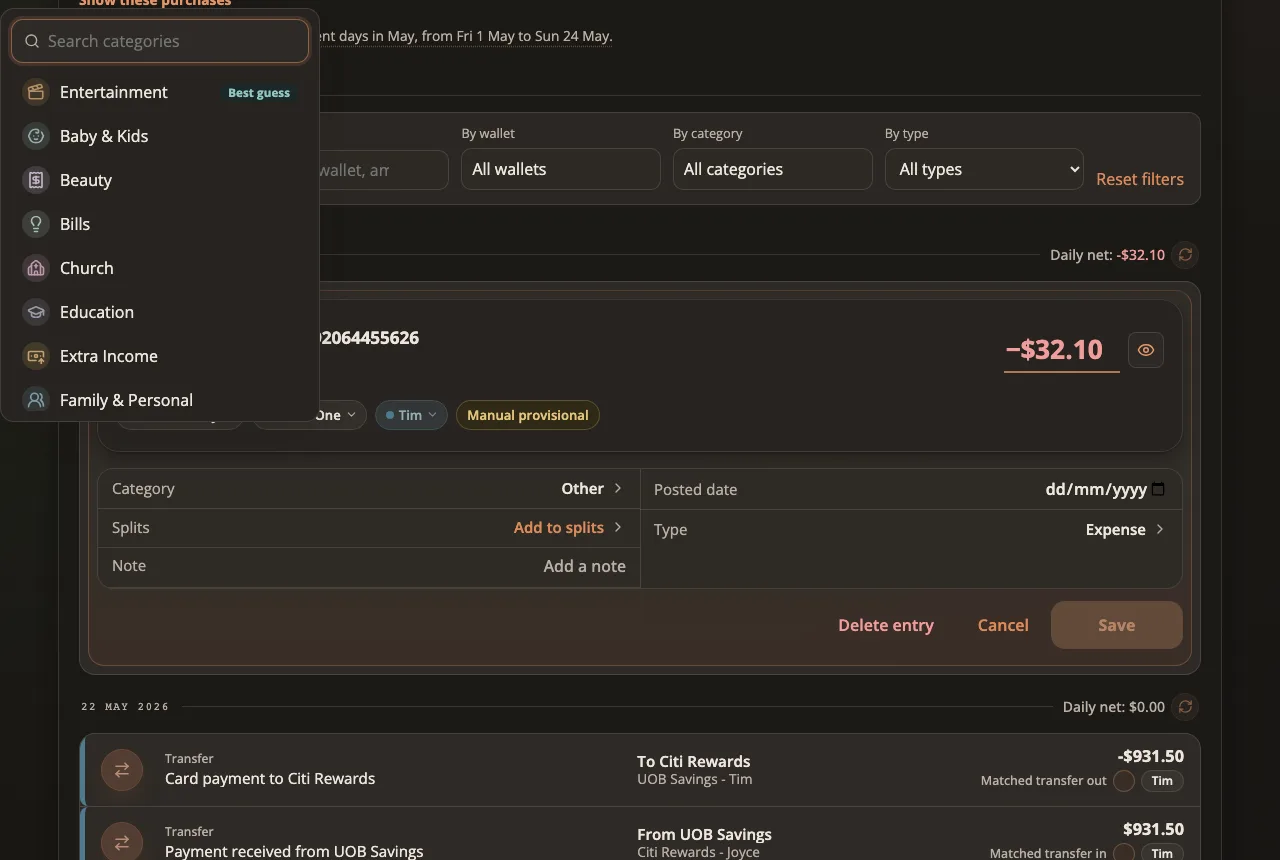
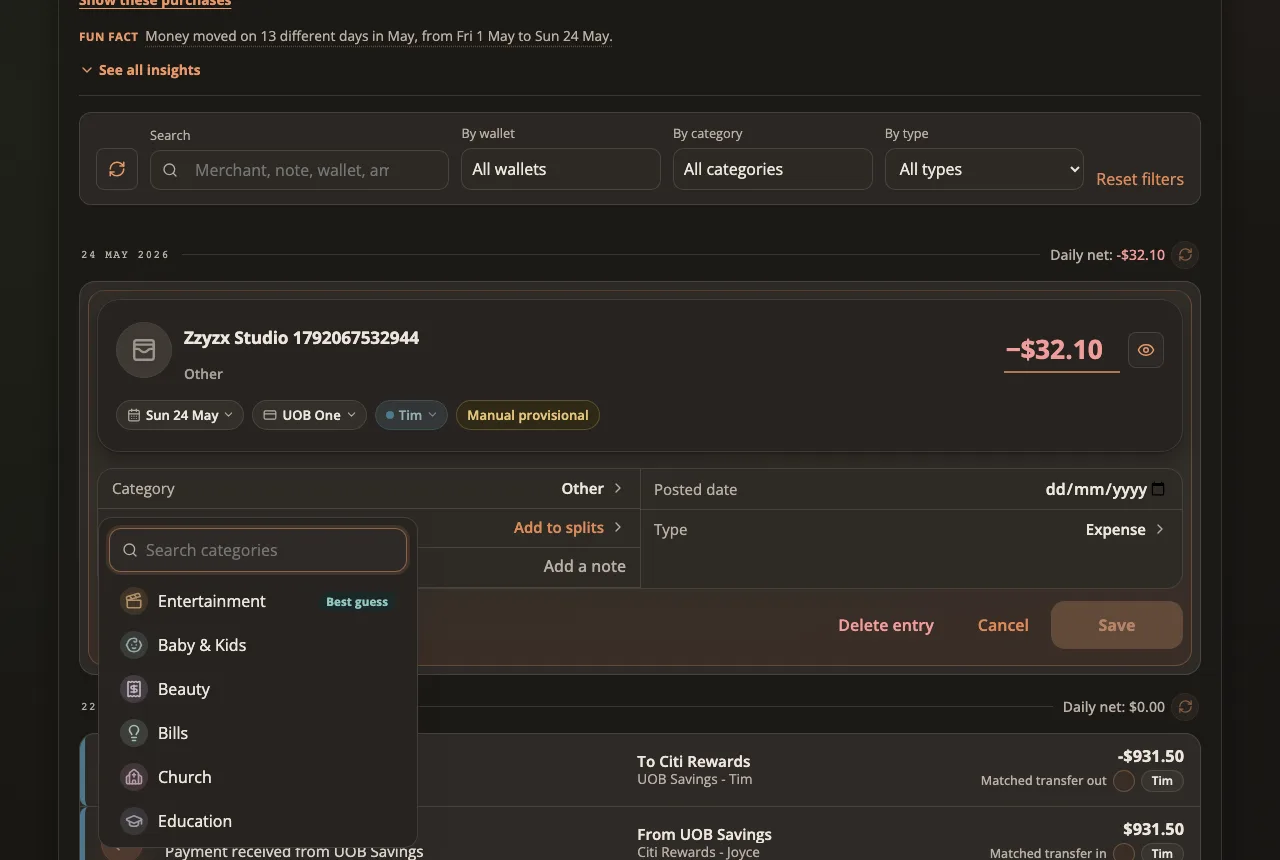
Category list: popover above dialogs, form tests read the list, docs index, retaken screenshots

diff --git a/tests/e2e/helpers.js b/tests/e2e/helpers.js
@@ -323,6 +323,17 @@ export const categoryList = (page) => page.getByRole("listbox", { name: "Categor
 export const categoryOption = (page, name) => page.locator(`[data-category-option="${name}"]`);
 export const categorySearch = (page) => page.getByRole("combobox", { name: "Search categories" });
 
+// The category names the entry form offers: opens its category list, reads the
+// names and closes it again (the form's own category control, not a filter).
+export async function categoryNamesInForm(page) {
+  await page.getByRole("button", { name: /^Category,/ }).first().click();
+  await expect(categoryList(page)).toBeVisible();
+  const names = await categoryList(page).locator(".category-pick-row-label").allTextContents();
+  await page.keyboard.press("Escape");
+  await expect(categoryList(page)).toHaveCount(0);
+  return names;
+}
+
 export async function pickCategory(page, trigger, name) {
   await trigger.click();
   await expect(categoryList(page)).toBeVisible();

diff --git a/tests/e2e/app-sync-subscription.spec.js b/tests/e2e/app-sync-subscription.spec.js
@@ -1,6 +1,6 @@
 import { expect, test } from "@playwright/test";
 
-import { openEntryComposer, postJson, reseedDemo } from "./helpers";
+import { categoryNamesInForm, openEntryComposer, postJson, reseedDemo } from "./helpers";
 
 // H12d: cross-tab sync lives in useAppSyncSubscription. Both transports reach
 // the same handlers: a BroadcastChannel shell refresh and a storage-event
@@ -30,7 +30,7 @@ test("a shell refresh sent over BroadcastChannel updates reference data in the o
     channel.close();
   });
 
-  await expect.poll(() => other.locator("select option").allTextContents(), { timeout: 15_000 }).toContain(renamed);
+  await expect.poll(() => categoryNamesInForm(other), { timeout: 15_000 }).toContain(renamed);
   expect(await other.evaluate(() => window.__notReloaded)).toBe(true);
   await other.close();
 });

diff --git a/tests/e2e/reference-data-owner.spec.js b/tests/e2e/reference-data-owner.spec.js
@@ -1,6 +1,6 @@
 import { expect, test } from "@playwright/test";
 
-import { openEntryComposer, postJson, reseedDemo } from "./helpers";
+import { categoryNamesInForm, openEntryComposer, postJson, reseedDemo } from "./helpers";
 
 // H12a: reference data (accounts, categories) has one owner. A cross-tab
 // refresh keeps the last good data on screen, never blanks the shell or
@@ -32,7 +32,7 @@ function broadcastShellRefresh(page) {
 }
 
 async function categoryOptions(page) {
-  return page.locator("select option").allTextContents();
+  return categoryNamesInForm(page);
 }
 
 test("a cross-tab refresh updates reference data without blanking the shell or dropping a draft", async ({ page }) => {

diff --git a/src/client/category-pick.css b/src/client/category-pick.css
@@ -206,7 +206,8 @@
   border-radius: 14px;
   background: var(--card);
   box-shadow: 0 18px 40px rgba(27, 24, 21, 0.14);
-  z-index: 80;
+  /* Above the dialogs and sheets it can open from (z-index 90 and 91). */
+  z-index: 140;
 }
 
 .category-popover:focus {

diff --git a/docs/audits/category-quick-pick.md b/docs/audits/category-quick-pick.md
@@ -81,6 +81,24 @@ skipped), a category the household lacks is skipped. No AI.
 - No page response changed: the entries-page payload is unchanged.
 - Nothing is sent but the entry's own description (at most 240 characters).
 
+## Screenshots
+
+In `docs/audits/category-quick-pick/` (demo data only; the spec
+`tests/e2e/category-quick-pick.spec.js` takes them when
+`CATEGORY_PICK_SHOT_DIR` is set):
+
+- Before: `before-desktop-light-label-click-opens-editor` (the label opened the
+  row's editor, there was no list to search) and
+  `before-phone-light-category-picker` (the plain phone list).
+- After, wide screen, light and dark: `desktop-*-entries-row-best-guess`,
+  `-search-kopi`, `-no-match`, `desktop-*-edit-card`, `desktop-*-filter`.
+- After, phone, light and dark: `phone-*-entries-row-best-guess`,
+  `phone-*-entries-row-search-coffee`.
+
+The other families (Ask, Month plan, Settings, Imports, Splits) draw the same
+list from the same component; `tests/category-pick-list-dom.test.mjs` and the
+browser specs for each cover them.
+
 ## Not covered
 
 - Rule words in the search ("any category rule words if cheap"): the page does

diff --git a/docs/README.md b/docs/README.md
@@ -114,6 +114,10 @@ a doc here in the same change.
 - [`audits/month-lead-spacing/README.md`](audits/month-lead-spacing/README.md):
   the Month and Summary lead's vertical rhythm and the legend share rule,
   with before and after screenshots (15 October 2026).
+- [`audits/category-quick-pick.md`](audits/category-quick-pick.md): the one
+  category list (search, best guess first, then A to Z): inventory of every
+  place a category is chosen, the focus decision, the best-guess rules and
+  their read cost, with before and after screenshots (15 October 2026).
 - [`audits/ai-assistance-slice-audit.md`](audits/ai-assistance-slice-audit.md):
   optional AI assistance slice, including the Claude-through-AI-Gateway
   provider and receipt reading (11 October 2026).
